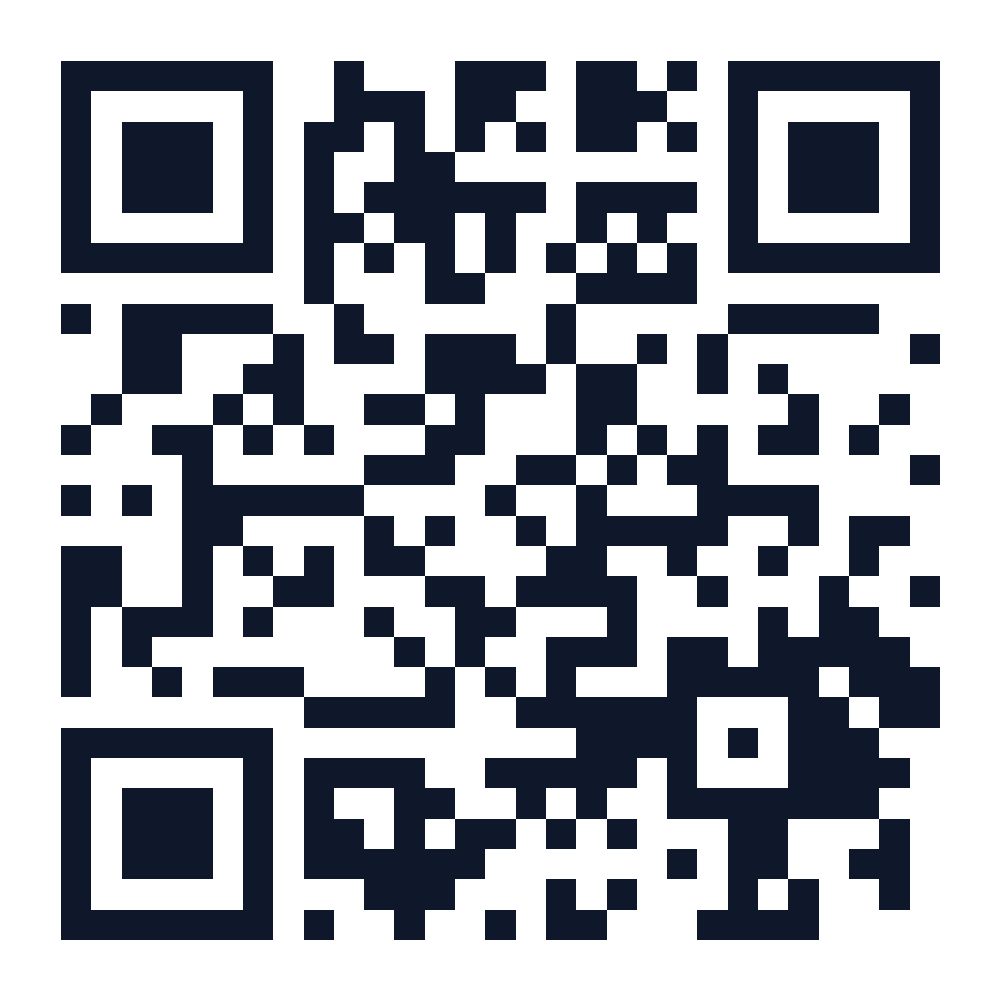
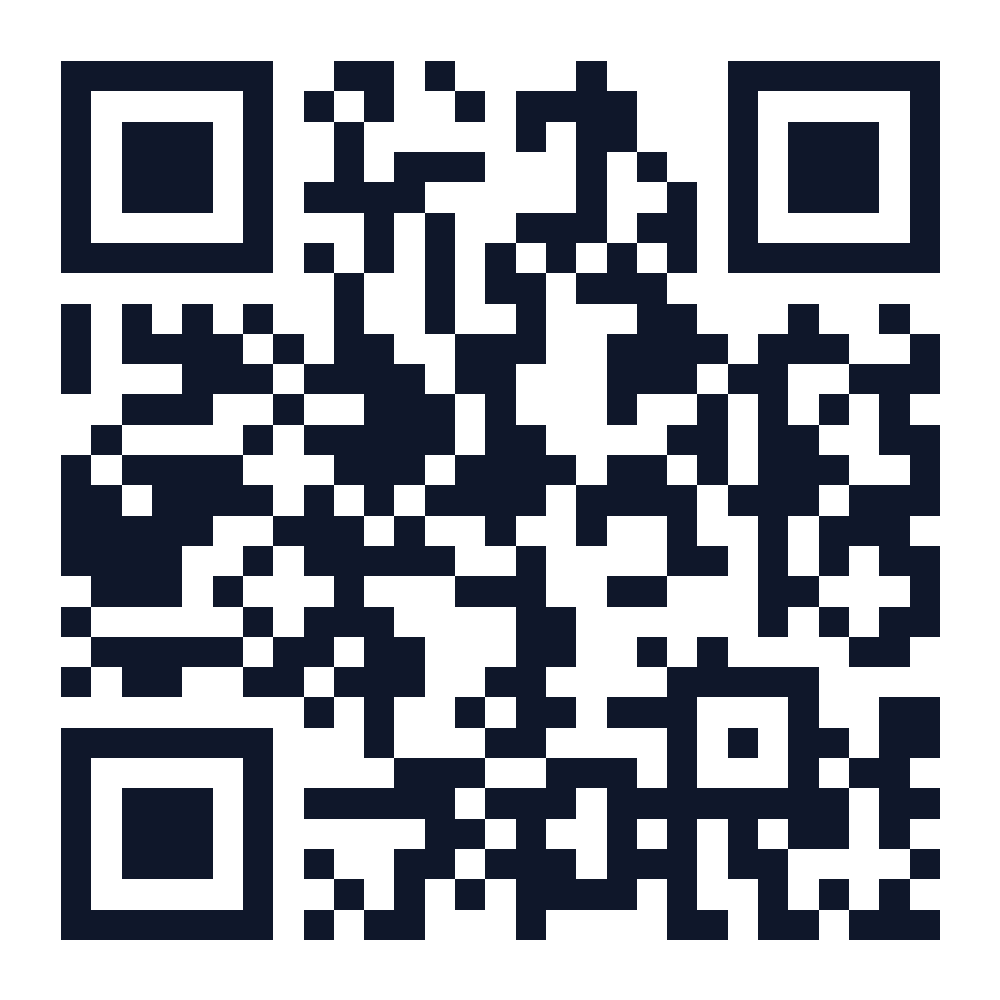
Update API IP address to current active network IP 172.16.26.155

Changed region(s): [[0.062, 0.062, 0.961, 0.961], [0.558, 0.062, 0.713, 0.248]]

diff --git a/frontend/src/api/axiosConfig.js b/frontend/src/api/axiosConfig.js
@@ -1,15 +1,16 @@
 import axios from 'axios';
 
-// Dynamic API Base URL detection:
-// - Uses VITE_API_BASE_URL environment variable if configured
-// - If accessed on mobile via Vercel/Network, falls back to local machine network IP (172.16.2.65)
-// - If accessed on local machine, uses localhost:8080
+// Current active local machine IP: 172.16.26.155
 const getBaseURL = () => {
+  if (typeof window !== 'undefined') {
+    const customUrl = localStorage.getItem('anapoorna_api_url');
+    if (customUrl) return customUrl;
+  }
   if (import.meta.env.VITE_API_BASE_URL) {
     return import.meta.env.VITE_API_BASE_URL;
   }
   if (typeof window !== 'undefined' && window.location.hostname !== 'localhost' && window.location.hostname !== '127.0.0.1') {
-    return 'http://172.16.2.65:8080/api';
+    return 'http://172.16.26.155:8080/api';
   }
   return 'http://localhost:8080/api';
 };
@@ -21,9 +22,10 @@ const api = axios.create({
   },
 });
 
-// Automatically inject JWT Token into request headers
+// Automatically update baseURL & inject JWT Token into request headers
 api.interceptors.request.use(
   (config) => {
+    config.baseURL = getBaseURL();
     const token = localStorage.getItem('anapoorna_token');
     if (token) {
       config.headers.Authorization = `Bearer ${token}`;

diff --git a/frontend/generate_qr.js b/frontend/generate_qr.js
@@ -1,6 +1,6 @@
 import QRCode from 'qrcode';
 
-const localIp = '172.16.2.65';
+const localIp = '172.16.26.155';
 const localUrl = `http://${localIp}:5173`;
 
 QRCode.toFile('qr_code.png', localUrl, {

diff --git a/frontend/generate_registration_qrs.js b/frontend/generate_registration_qrs.js
@@ -1,6 +1,6 @@
 import QRCode from 'qrcode';
 
-const localIp = '172.16.2.65';
+const localIp = '172.16.26.155';
 const baseUrl = `http://${localIp}:5173`;
 
 const targets = [
